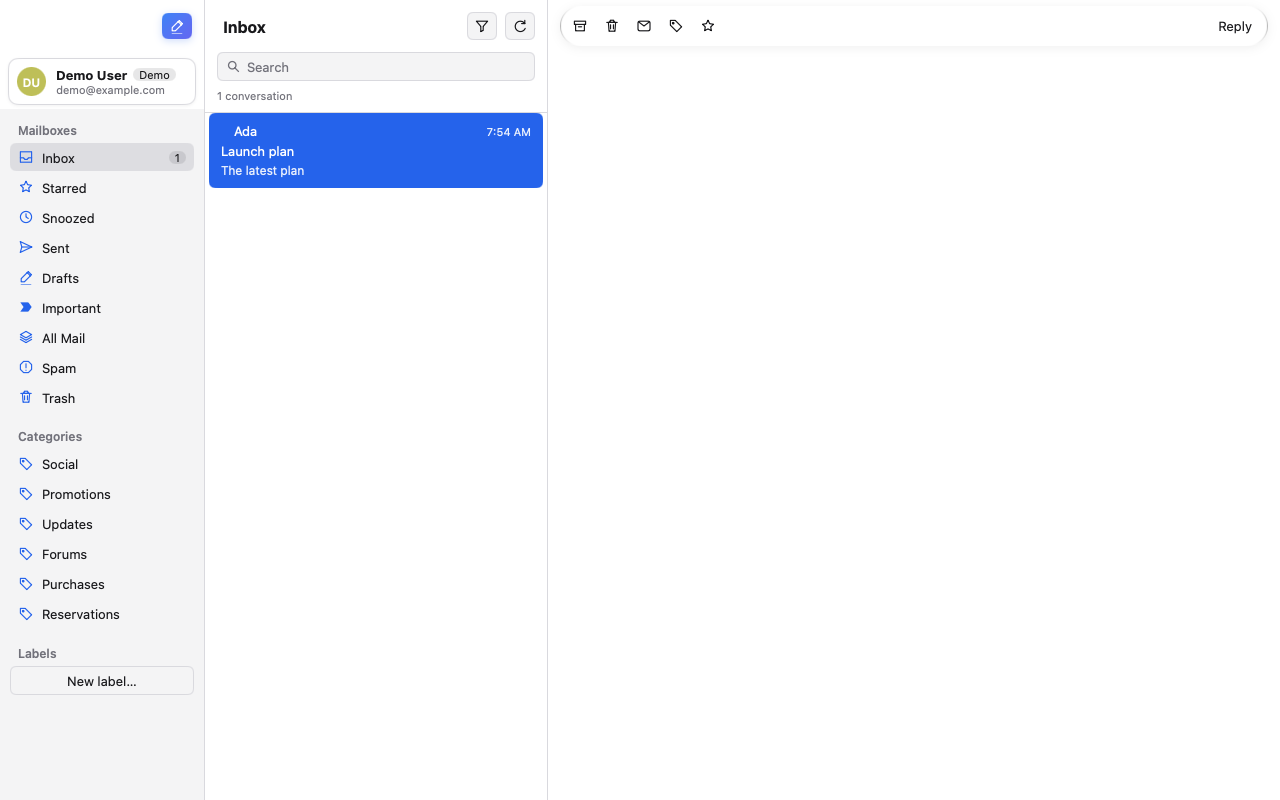
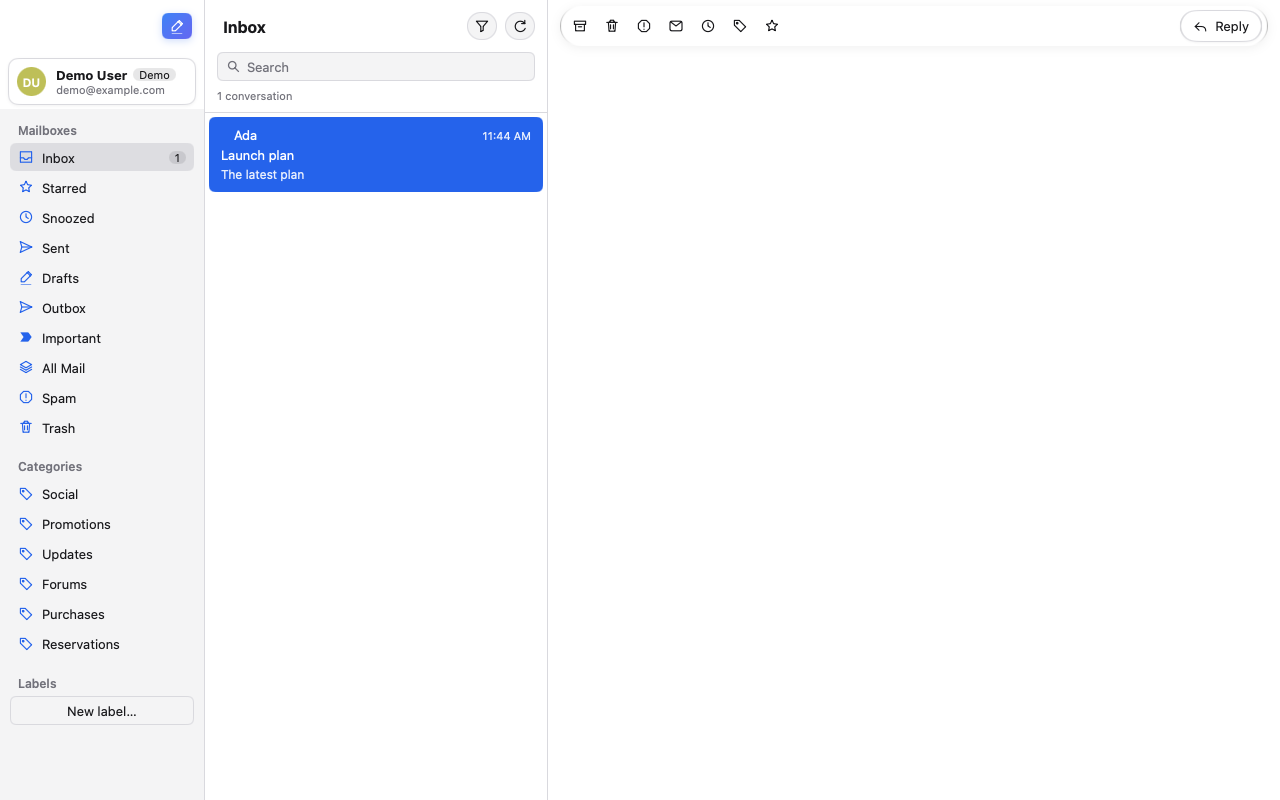
docs: update control styling evidence

Changed region(s): [[0.0, 0.375, 0.125, 0.9062], [0.1562, 0.125, 0.4375, 0.25], [0.9375, 0.0312, 0.9688, 0.0625]]

diff --git a/docs/design.md b/docs/design.md
@@ -18,7 +18,7 @@ Before the first HTML measurement, the body fills the available reader viewport 
 Subjects, sender metadata, and recipients use a compact Gmail-style hierarchy. Expanded messages offer compact Reply, Reply all, and Forward actions; collapsed messages keep the same actions in one menu. The actions after the conversation still target its latest message.
 The reader toolbar floats above the conversation with Liquid Glass tinted toward the theme background so it stays readable over native and WebView content. Primary actions share a blue-indigo gradient and restrained shadow.
 Grouped dialog content uses 12pt-radius bordered panels with consistent padding. Conversation rows use rounded selection with a small inset and vertical separation from the list divider.
-Reader reply actions use interactive Liquid Glass, and other secondary actions use light borders and shadows. Icon-only toolbar actions use fully circular hover feedback without changing their layout size.
+Reader reply actions use interactive Liquid Glass, and other secondary actions use light borders and shadows. The toolbar Reply shares the same capsule style as the actions after the conversation. On/off settings use native switches with a visible knob. Icon-only toolbar actions and menus use fully circular hover feedback without changing their layout size.
 The app icon is a white rounded square with a four-color envelope inspired by Gmail, while the interface keeps its own identity.
 English is the source and fallback language, with Simplified Chinese available through MyGo's catalogs.
 Gmail sign-in uses the embedded OAuth client by default; a custom client is available in a collapsed section. OAuth tokens are scoped by normalized Gmail email. New logins verify the Gmail identity before committing an account token; the active-account marker changes only during account activation, with `LastAccount` updated after a successful marker write. Reauthorization requires the same email. The marker lives in Keychain independently of SQLite and identifies the latest verified session. Restoration reads the marker first and falls back to `LastAccount` only for legacy installations. Migration verifies the legacy account identity, rebuilds from the formal store, and retires only that legacy token. Adding or reauthorizing an account does not delete the shared legacy token; account removal verifies its ownership before deleting it, the formal token, and local state. Identity checks that may refresh a token run before taking the credential lifecycle write lock; only deletion and marker commits run inside it. Explicit login or recovery may reopen the account only with the current credential generation; service replacement also cancels prior authentication and advances that generation. Authentication callbacks clear their cancel function only when both the service version and their own operation ID still match. Formal credential commits hold the lifecycle lock across reopening, token and marker writes, formal restore, and legacy cleanup; manual Connect, restore, and reauthorization all enter the same generation and operation lifecycle. The HTTP client and Pub/Sub share one token source, and service deactivation covers both paths. Refresh holds the lifecycle read lock and rechecks deactivation before saving so an old service cannot overwrite a newer authorization.
@@ -117,7 +117,7 @@ Real Gmail acceptance requires a Google test account.
 - The packaged settings UI shows the built-in Gmail connection first and keeps custom OAuth fields collapsed until requested.
 - Shifted Gmail punctuation shortcuts use native menu equivalents and are disabled while search or modal text input is active.
 - Marketing copy and nonfunctional placeholder buttons were removed. Only actions with real behavior remain.
-- Final screenshots are in `docs/screenshots/`: `reading-light.jpg`, `reading-dark.jpg`, `mailbox.jpg`, `settings.jpg`, `unified.jpg`, `outbox.jpg`, `remote-images.jpg`, `list-retina.png`, `message-retina.png`, `snoozed.png`, `scheduled.png`, and `schedule-compose.png`.
+- Final screenshots are in `docs/screenshots/`: `reading-light.jpg`, `reading-dark.jpg`, `mailbox.jpg`, `settings.png`, `unified.jpg`, `outbox.jpg`, `remote-images.jpg`, `list-retina.png`, `message-retina.png`, `snoozed.png`, `scheduled.png`, and `schedule-compose.png`.
 - English motion evidence is in `reader-*.png`, `compose-*.png`, `toast-*.png`, and `button-pressed.png`, generated by `MICA_CAPTURE=1 go test ./internal/app -run TestCaptureMotion -count=1`. `motion-sheet.png` composites the reader, composer, and toast sequences.
 - The native updater window was exercised. Updater JSON and release artifacts are published by CI; a real update installation has not been tested.
 - Google OAuth incremental authorization and real Keychain writes succeeded. A later launch restored the account name and photo without another authorization prompt.
@@ -131,4 +131,5 @@ Real Gmail acceptance requires a Google test account.
 - Offline tests cover cached-body search, background cache scanning, SQLite attachment reopening, bounded eviction, empty files, forwarding, and the real HTTP resource handler. Regressions reproduced a missing WebView cache binding, removed-owner writes, early cache-drain completion, and UI-thread searching before their fixes. Additional regressions cover SQLite-assigned revisions across restart and concurrent writes, v6 high-revision upgrades, legacy owner casing and TEXT snapshots, normalized unread filtering, independent account quotas, concurrent eviction, and failed-insert rollback. ID-less inline images use message-provided bytes before cache recovery and reject missing bytes without a fetch. Blocked-fetch tests cover downloads, forwarding, and WebView through the full cache drain, including post-drain write rejection. Startup-order tests set the store before loading account metadata, and forwarding before profile restoration cannot write unowned cache entries. Real Gmail offline behavior, real multi-account access, and native WebView rendering have not been exercised.
 - Snooze tests cover SQLite migration and restart, persistence before remote modification, offline view merging, wake completion, failed saves, rescheduling, stale timers, account removal, and cancellation failure. Local-change ordering, multi-account owner routing, post-quit cache rejection, superseded list loading, and pending Unified completion are covered with controlled schedules. Regressions reproduced stale local metadata, discarded Unified restorations, overwritten Inbox rows, and stranded loading before their fixes. English menu, wake-time rendering, Unsnooze, and the `b` shortcut are exercised with `ui.NewTester`; the English screenshot is `docs/screenshots/snoozed.png`. Real Gmail snooze timing and native notification behavior have not been exercised.
 - Remote image tests prove default blocking before any remote request, owner/message isolation, inline-source compatibility, global preference restoration, latest-write ordering, background-image detection, and English settings/message controls. No real remote image host is contacted.
+- Control styling tests prove the Remote images switch has a visible knob that moves to the expected side, toolbar Reply and icon menus have rounded hover feedback, and the unread filter keeps its Accent color transition. Regressions reproduced the missing knob and rectangular hover before their fixes. The updated English Settings and button-pressed captures were inspected; the Settings capture is `docs/screenshots/settings.png`.
 - The 0.14.0 release workflow built, signed, notarized, and published the DMG, universal archive, three delta updates, and updater JSON. A real update installation has not been tested.

diff --git a/docs/LESSONS.md b/docs/LESSONS.md
@@ -147,6 +147,8 @@
 - For visual differences such as padding, compare text origins in rendered images when necessary.
 - A localized Select must not display a persisted code directly as its option label. Map state to display text explicitly and inspect the collapsed control's actual rendering for empty, `en`, and `zh-Hans` values.
 - A toggle needs a clearly different active color, not only a changed tooltip or filtered result. Verify color transitions at start, middle, and end, and move the pointer away before checking the inactive style because hover can mask the default background.
+- An empty Toggle is not a Switch. Use a real switch for on/off settings and verify that the knob stays visible and moves to the expected side through start, middle, and end frames.
+- Shape assertions need committed control bounds and the intended interaction state. Text bounds, empty bounds, disabled rendering, and an unhovered transparent toolbar button cannot prove or falsify the default face. Sample solid background away from glyphs and rounded edges: a center icon's antialiasing or a point outside a capsule can look like the wrong theme color even when the style is correct.
 - Glass materials can be nearly invisible on a light reader while looking strong in dark mode. Check both appearances with real content behind the material, including while content scrolls under it, and tune the tint and shadow so the backdrop cannot reduce control contrast.
 - A transparent WebView backdrop is sampled as black by Liquid Glass and can turn a lightly tinted toolbar gray. Keep the tint strong enough to preserve contrast and compare the same pixel before and after the WebView scrolls underneath.
 - UI capture helpers must not call production credential-loading paths. Build modal state directly, or a screenshot run can block on the real macOS Keychain instead of rendering.
